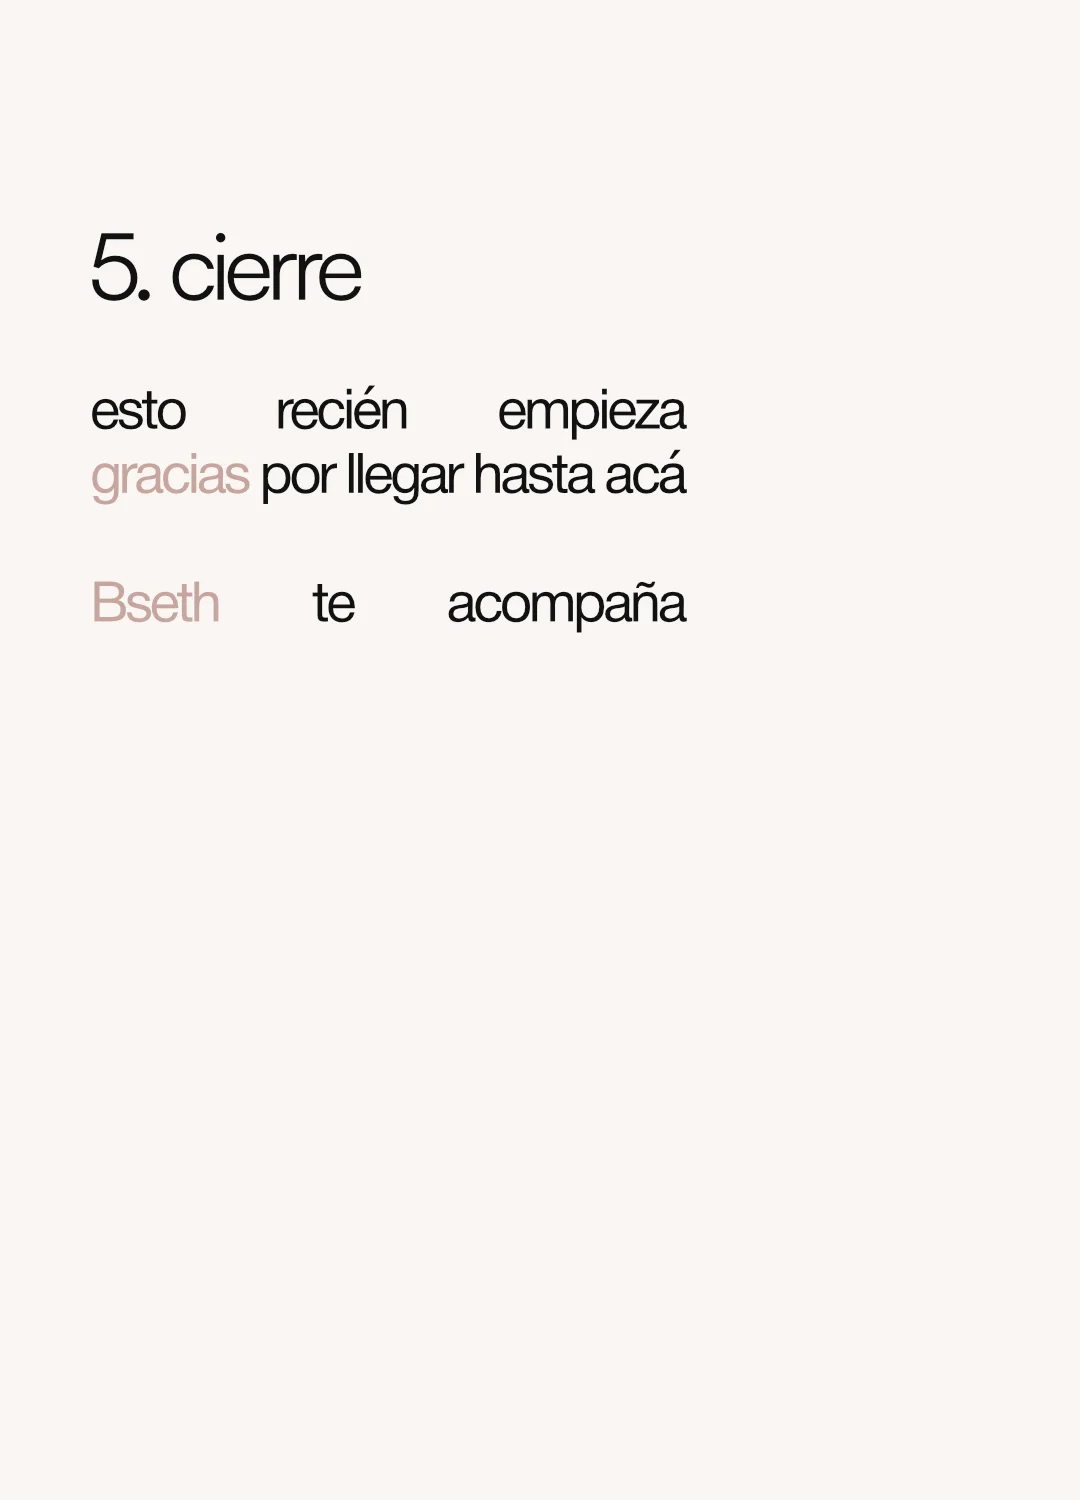
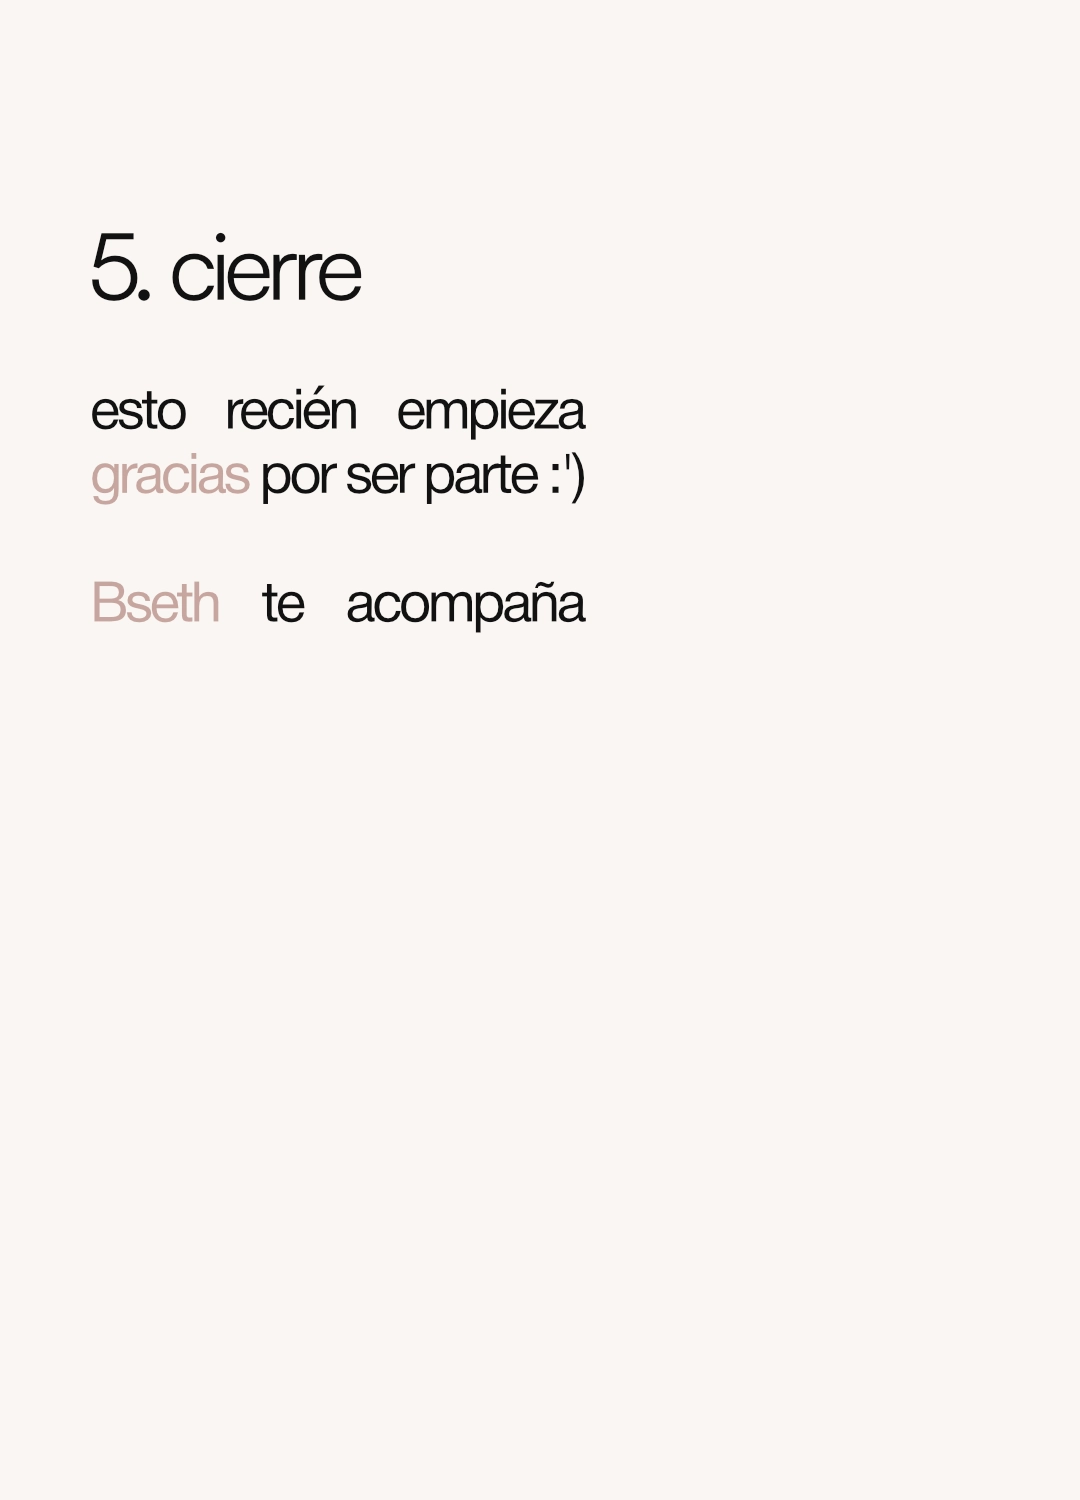
mejoras

Changed region(s): [[0.2139, 0.2453, 0.6417, 0.3373], [0.2444, 0.368, 0.6417, 0.4293]]

diff --git a/src/App.jsx b/src/App.jsx
@@ -54,13 +54,50 @@ const ShootingBag = ({ img, index }) => {
 
 function App() {
   const [loading, setLoading] = useState(true);
+  
+  // ESTADO PARA EL CARTELITO RANDOM
+  const [randomStyle, setRandomStyle] = useState(null);
 
   useEffect(() => {
+    // 1. Loader Logic
     const timer = setTimeout(() => {
       setLoading(false);
     }, 3000); 
 
-    return () => clearTimeout(timer); 
+    // 2. Random Badge Logic (INTERVALO CONSTANTE)
+    const colors = [
+        { bg: "bg-[#C8A6A0]", text: "text-[#ECE4CE]" }, // Rose + Sand
+        { bg: "bg-[#8E9F6C]", text: "text-[#ECE4CE]" }, // Olive + Sand
+        { bg: "bg-[#ECE4CE]", text: "text-[#111111]" }, // Sand + Black
+        { bg: "bg-[#BAAD93]", text: "text-[#111111]" }, // Beige + Black
+    ];
+
+    const positions = [
+        { x: -75, y: -45, r: -5 }, // Arriba Izquierda
+        { x: 75, y: -45, r: 5 },   // Arriba Derecha
+        { x: 0, y: -60, r: 0 },    // Arriba Centro
+        { x: 85, y: 15, r: -8 },   // Abajo Derecha
+        { x: -85, y: 15, r: 8 },   // Abajo Izquierda
+    ];
+
+    // Función para cambiar estilo
+    const changeStyle = () => {
+        const randomColor = colors[Math.floor(Math.random() * colors.length)];
+        const randomPos = positions[Math.floor(Math.random() * positions.length)];
+        // Agregamos un ID único (timestamp) para forzar la re-animación
+        setRandomStyle({ ...randomColor, ...randomPos, id: Date.now() });
+    };
+
+    // Ejecutar inmediatamente
+    changeStyle();
+
+    // Ejecutar cada 2.5 segundos (puedes cambiar 2500 por 3000 si lo quieres más lento)
+    const interval = setInterval(changeStyle, 2500);
+
+    return () => {
+        clearTimeout(timer);
+        clearInterval(interval); // Limpiamos el intervalo al salir
+    }; 
   }, []);
   // -------------------------------------
 
@@ -75,7 +112,6 @@ function App() {
   return (
     <>
       <AnimatePresence mode='wait'>
-        
         {loading && <Loader key="loader" />} 
       </AnimatePresence>
 
@@ -154,14 +190,68 @@ function App() {
             {/* footer */}
             <section className="min-h-screen w-full bg-bseth-black flex flex-col items-center justify-center text-center text-bseth-cream p-6 relative z-20 border-t border-white/10">
               <h2 className="text-6xl md:text-9xl font-drowner mb-10 text-bseth-cream">gracias!</h2>
-              <div className="max-w-2xl text-lg md:text-2xl mb-16 px-4 font-helvetica font-light opacity-80 leading-relaxed">
-                <p className="mb-6">estamos transformando tu feedback en diseño real. gracias por sumar tu visión y ser parte de este proceso. lo mejor está por llegar.</p>
+              
+              <div className="max-w-2xl text-lg md:text-2xl mb-16 px-4 font-helvetica opacity-80 flex-col gap-1">
+                <p className="m-0 tracking-tight leading-tighter">esto es solo el inicio de un proyecto</p>
+                <p className="m-0 tracking-tight leading-tighter">pensado para acompañarte</p>
               </div>
-              <button onClick={() => window.location.href = "https://bseth.tiendanegocio.com/?utm_source=ig&utm_medium=social&utm_content=link_in_bio&fbclid=PAZXh0bgNhZW0CMTEAc3J0YwZhcHBfaWQMMjU2MjgxMDQwNTU4AAGnP_SuN94d1XkzokX99ydHNwYWIosYqDdBtjpVE9Dv3cKLznKGIkP5fAn-5IA_aem_4Hoi6Bu_T2c5qAPP-xriNQ"} className="group relative bg-bseth-rose text-bseth-black px-16 py-6 rounded-full text-xl md:text-2xl overflow-hidden transition-transform hover:scale-105">
-                <span className="relative z-10 font-helvetica tracking-tighter">ir a la tienda</span>
-                <div className="absolute inset-0 bg-white/20 translate-y-full group-hover:translate-y-0 transition-transform duration-300"></div>
-              </button>
-              <p className="absolute bottom-4 text-[10px] opacity-20 font-sans">© 2025 Bseth</p>
+              
+              {/* cont icons */}
+              <div className="relative flex gap-8 mt-10 items-center justify-center">
+
+                  {randomStyle && (
+                    <motion.div
+                        key={randomStyle.id} 
+                        initial={{ scale: 0, opacity: 0 }}
+                        animate={{ 
+                            scale: 1, 
+                            opacity: 1, 
+                            x: randomStyle.x, 
+                            y: randomStyle.y, 
+                            rotate: randomStyle.r 
+                        }}
+                        
+                        transition={{ type: "spring", stiffness: 300, damping: 20 }}
+                        className={`absolute z-30 px-3 py-1.5 ${randomStyle.bg} ${randomStyle.text} font-helvetica text-xs font-medium lowercase tracking-tighter rounded-full shadow-lg pointer-events-none whitespace-nowrap`}
+                    >
+                        seguinos!
+                    </motion.div>
+                  )}
+
+                  {/* ig */}
+                  <motion.a 
+                      href="https://www.instagram.com/bseth.ar/" 
+                      target="_blank" 
+                      rel="noopener noreferrer"
+                      className="text-bg-bseth-rose opacity-60 hover:opacity-100 transition-opacity"
+                      whileHover={{ y: -4, scale: 1.1 }} 
+                      whileTap={{ scale: 0.95 }}
+                  >
+                      {/* logo ig */}
+                      <svg xmlns="http://www.w3.org/2000/svg" width="24" height="24" viewBox="0 0 24 24" fill="none" stroke="currentColor" strokeWidth="1.5" strokeLinecap="round" strokeLinejoin="round">
+                          <rect x="2" y="2" width="20" height="20" rx="5" ry="5"></rect>
+                          <path d="M16 11.37A4 4 0 1 1 12.63 8 4 4 0 0 1 16 11.37z"></path>
+                          <line x1="17.5" y1="6.5" x2="17.51" y2="6.5"></line>
+                      </svg>
+                  </motion.a>
+
+                  {/* tt */}
+                  <motion.a 
+                      href="https://www.tiktok.com/@bseth.ar" 
+                      target="_blank" 
+                      rel="noopener noreferrer"
+                      className="text-[#EBE5CE] opacity-60 hover:opacity-100 transition-opacity"
+                      whileHover={{ y: -4, scale: 1.1 }} 
+                      whileTap={{ scale: 0.95 }}
+                  >
+                      {/* logo tt */}
+                      <svg xmlns="http://www.w3.org/2000/svg" width="24" height="24" viewBox="0 0 24 24" fill="none" stroke="currentColor" strokeWidth="1.5" strokeLinecap="round" strokeLinejoin="round">
+                          <path d="M9 12a4 4 0 1 0 4 4V4a5 5 0 0 0 5 5"></path>
+                      </svg>
+                  </motion.a>
+
+              </div>
+              <p className="absolute bottom-4 text-[13px] opacity-20 font-sans">© 2026 Bseth</p>
             </section>
 
           </div>

diff --git a/src/components/Narrative.jsx b/src/components/Narrative.jsx
@@ -54,7 +54,7 @@ export default function Narrative() {
       <div className="w-[95vw] max-w-[1360px] transform-gpu">
         
         {/* header */}
-        <div className="flex justify-between items-center text-[9px] font-bold tracking-[0.2em] text-black/40 mb-6 border-b border-black/5 pb-2 uppercase font-sans">
+        <div className="flex justify-between items-center text-[9px] font-helvetica tracking-[0.2em] text-black/40 mb-6 border-b border-black/5 pb-2 uppercase font-sans">
             <span>Page 01</span>
             <span className="w-8"></span> 
             <span>Page 02</span>
@@ -119,8 +119,8 @@ export default function Narrative() {
                     {/* TEXTO */}
                     <div className="mt-4 pt-2 border-t border-black/10">
                         <h4 className="font-helvetica text-[13px] mb-1 text-black tracking-tight">lisbeth</h4>
-                        <p className="text-[13px] leading-[1.4] text-justify text-black/90 font-helvetica tracking-tight">
-                            ama el gimnasio
+                        <p className="text-[13px] leading-[1.4] text-black/90 font-helvetica tracking-tight">
+                            <map name=""></map>me gusta decir ‘lis con L’ cuando voy a starbucks, también me gusta decir ‘quispe con Q’ cuando tengo que renovar la cuota del gym, pero también me gusta que me digan ‘teacher! toilet please’
                         </p>
                     </div>
                 </div>
@@ -145,8 +145,8 @@ export default function Narrative() {
                 
                 <div className="col-span-5 flex flex-col justify-end pb-2 pl-3">
                     <h4 className="font-helvetica text-[13px] mb-1 text-black tracking-tight">brisa</h4>
-                    <p className="text-[13px] leading-[1.4] text-left text-black/90 font-helvetica tracking-tight">
-                       estudiante de ingeniería informática, artista y diseñadora. transformo ideas complejas en interfaces visuales. construyo software y experiencias digitales impulsada por la curiosidad, el buen diseño y la funcionalidad. <p>amo leer, amo la música, amo el arte, amo la moda, amo el amor, amo el conocimiento</p> 
+                    <p className="text-[13px] leading-[1.4] text-left text-black/80 font-helvetica tracking-tight">
+                       amo leer, amo la música, amo el arte, amo la moda, amo el amor, amo el conocimiento y a los animales.<p>estudio ingeniería informática, construyo software y experiencias digitales impulsadas por la curiosidad, la creatividad y la funcionalidad.</p> 
                     </p>
                 </div>
 

diff --git a/src/components/BagPacker.jsx b/src/components/BagPacker.jsx
@@ -20,16 +20,17 @@ import imgCamara from "../assets/camara.png";
 const ITEMS_DATA = [
   // BOLSO 1 (Izquierda)
   { id: 1,  img: imgLaptop,      name: "notebook",       targetBag: 1, startX: "-6vw",  startY: "-25vh" }, 
-  { id: 2,  img: imgLibro,       name: "libro de diseño", targetBag: 1, startX: "-12vw", startY: "-20vh" },
+  { id: 2,  img: imgLibro,       name: "libros", targetBag: 1, startX: "-12vw", startY: "-20vh" },
   { id: 3,  img: imgBotella,     name: "botella de agua", targetBag: 1, startX: "-4vw",  startY: "-15vh" },
   { id: 4,  img: imgAuriculares, name: "auriculares",     targetBag: 1, startX: "-10vw", startY: "-22vh" },
   { id: 5,  img: imgKindle,      name: "kindle",          targetBag: 1, startX: "-8vw",  startY: "-28vh" },
   { id: 6,  img: imgTablet,      name: "ipad / tablet",   targetBag: 1, startX: "-14vw", startY: "-18vh" },
-  { id: 11, img: imgCuaderno,    name: "cuaderno ideas",  targetBag: 1, startX: "-9vw",  startY: "-30vh" },
+  { id: 11, img: imgCuaderno,    name: "cuaderno",  targetBag: 1, startX: "-9vw",  startY: "-30vh" },
   { id: 12, img: imgCelular,     name: "celular",         targetBag: 1, startX: "-3vw",  startY: "-12vh" },
-  { id: 13, img: imgLentes,      name: "lentes de sol",   targetBag: 1, startX: "-11vw", startY: "-16vh" },
-  { id: 14, img: imgLlaves,      name: "llaves de casa",  targetBag: 1, startX: "-7vw",  startY: "-10vh" },
+  { id: 13, img: imgLentes,      name: "lentes",   targetBag: 1, startX: "-11vw", startY: "-16vh" },
+  { id: 14, img: imgLlaves,      name: "llaves",  targetBag: 1, startX: "-7vw",  startY: "-10vh" },
   { id: 16, img: imgCamara,      name: "cámara digital",  targetBag: 1, startX: "-5vw",  startY: "-24vh" },
+
 
   // BOLSO 2 (Derecha)
   { id: 7,  img: imgLlaves,      name: "llaves",          targetBag: 2, startX: "6vw",   startY: "-20vh" },
@@ -132,7 +133,7 @@ export default function BagPacker() {
           <h2 className="font-helvetica text-3xl md:text-5xl text-bseth-cream mb-3 mix-blend-overlay opacity-90 lowercase tracking-tighter">
             modelos pensados para vos
           </h2>
-          <p className="text-2x1 md:text-sm font-helvetica text-bseth-black opacity-60 lowercase tracking-tighter">
+          <p className="text-base md:text-x2 font-helvetica text-bseth-black opacity-60 lowercase tracking-tight">
             con ayuda de las respuestas que dejen en el {" "}
             <a 
               href="https://forms.gle/gGu3howRXPYg67y66" 
